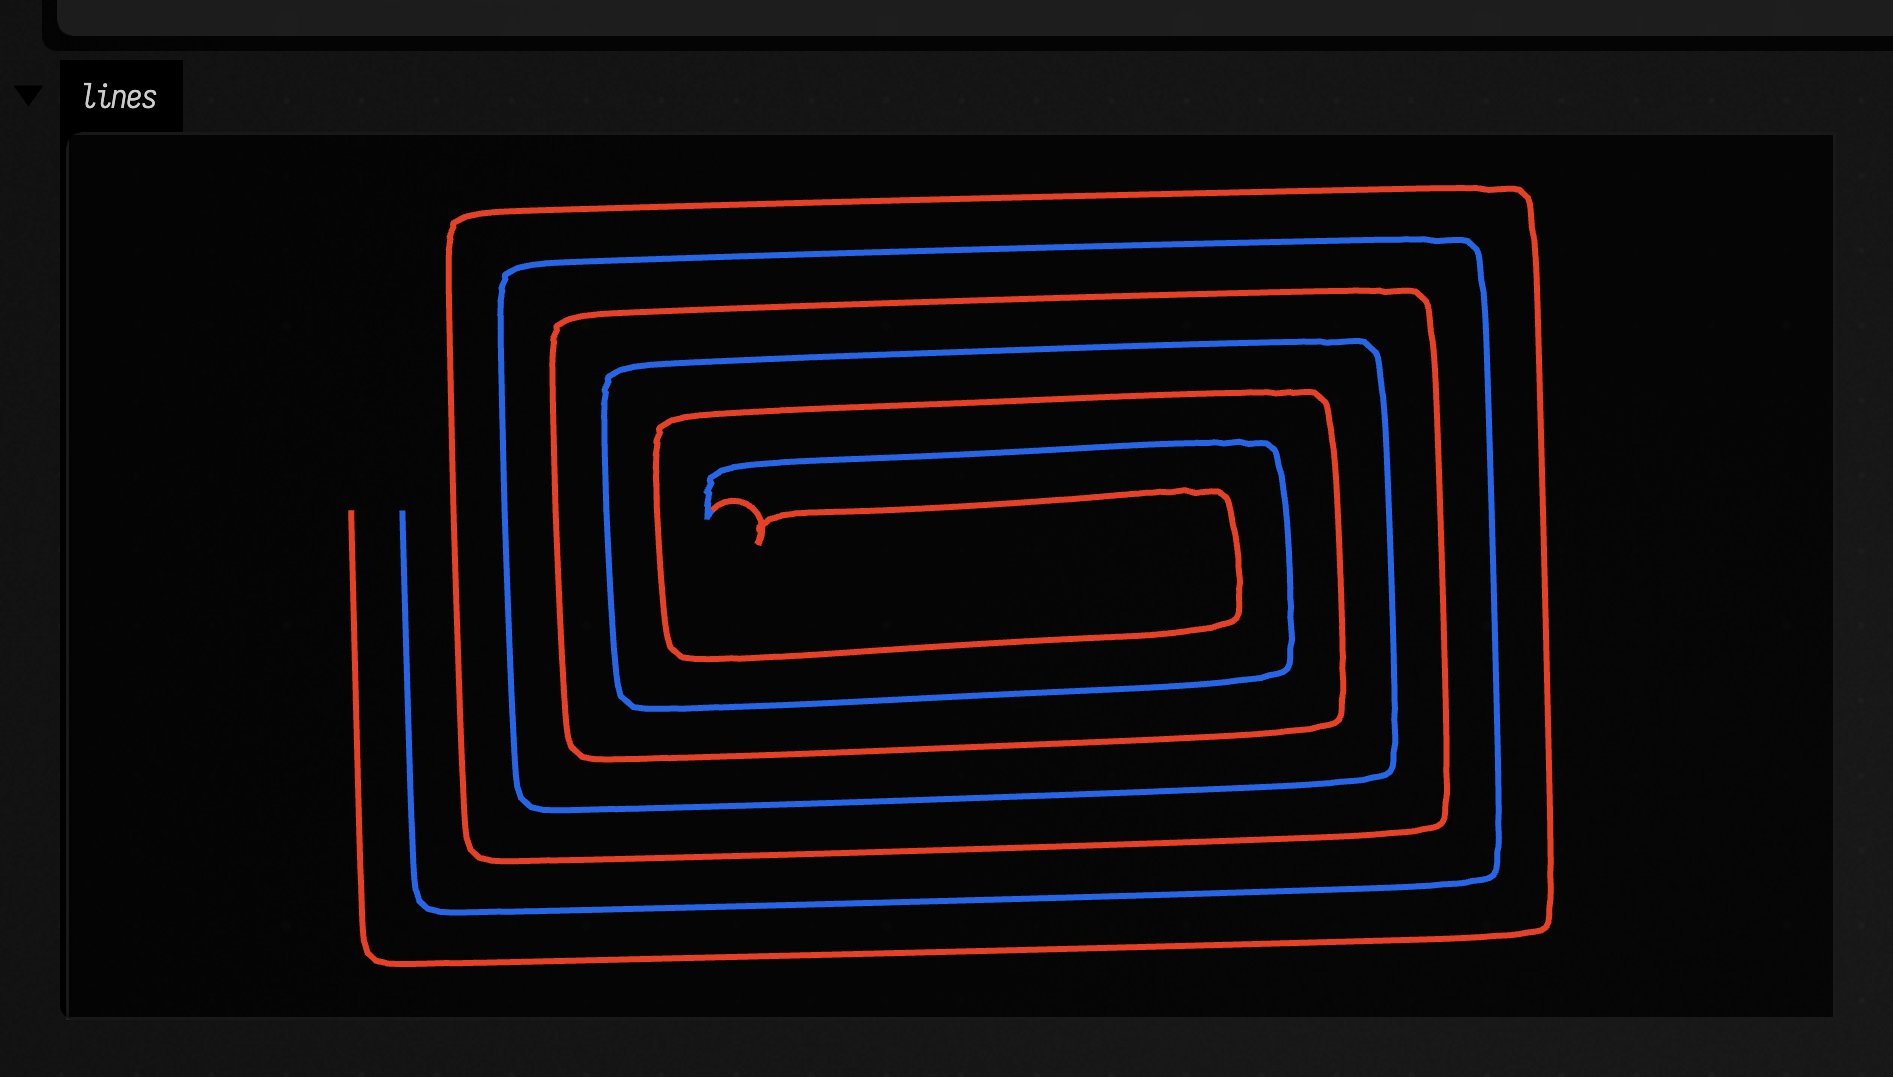
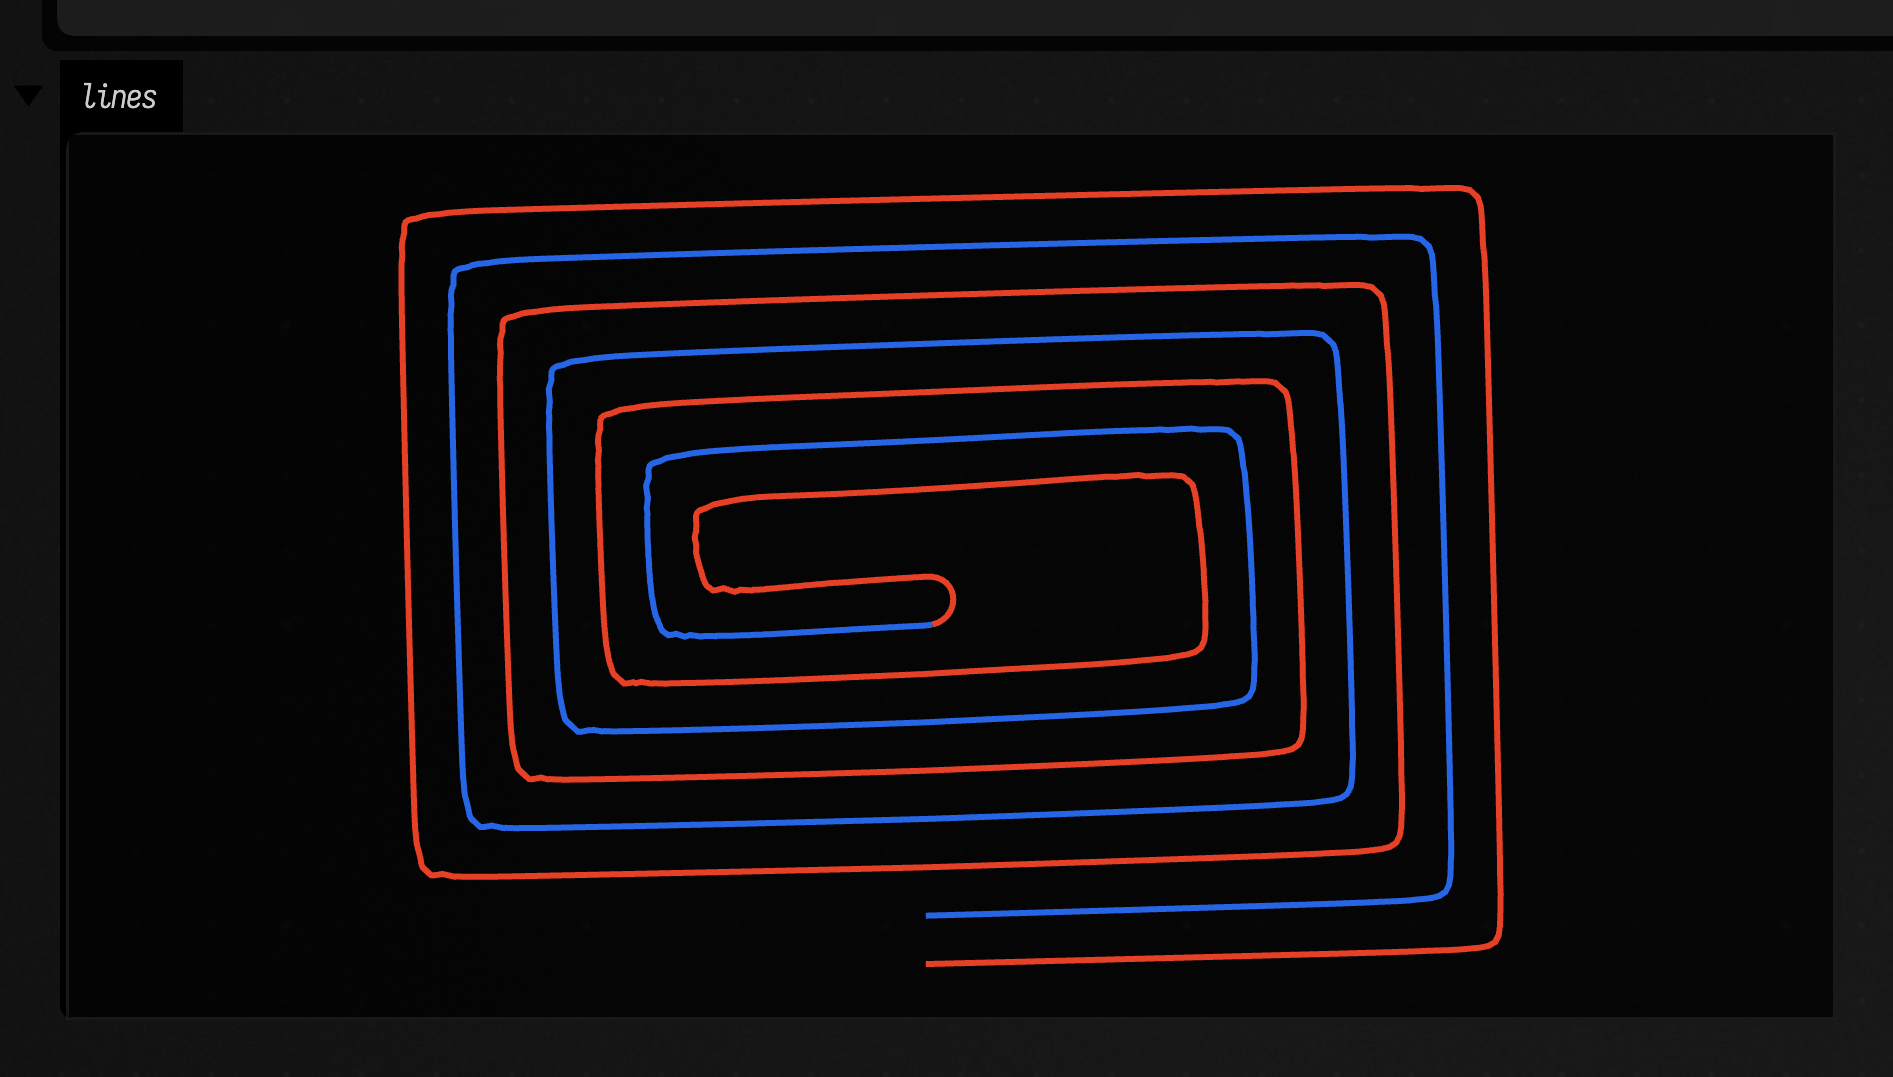
Double spiral: a tangent bend where the arms meet, and less bare floor
The semicircular U-bend always bulged sideways from the supply's arrival, so
where the return started straight ahead it made a hook back on itself. The
bend is now a cubic Bezier tangent to both arms (directions measured over a
little more than the gap, past the kink where a lap snaps onto the next ring),
with the supply backed off first when the return lies ahead of it.

Where the arms start sets where they meet. doubleSpiralArms now starts at the
outer ring's point nearest the middle of the innermost ring, the middle of a
long wall, so the arms meet side by side on a straight stretch and the bend
is a clean U instead of a turn round the end of a thin inner loop.

windingAngle's default hole is 8% of the deepest distance (was 15%), which
leaves less of the middle bare without the hairpins a 3% hole made.
Both double-spiral figures recaptured.

Changed region(s): [[0.187, 0.1532, 0.8415, 0.9192], [0.6233, 0.1532, 0.6857, 0.1838]]

diff --git a/src/jvmMain/kotlin/afield/geometry/mesh/mesh_geodesic.kt b/src/jvmMain/kotlin/afield/geometry/mesh/mesh_geodesic.kt
@@ -409,7 +409,7 @@ fun spiralFromRings(rings: List<List<Vec3>>): List<Vec3> {
 
 /**
  * A counterflow double spiral through concentric closed rings: the path spirals in on every other
- * ring, turns round in the middle in a U-bend, and spirals back out along the rings in between,
+ * ring, turns round in the middle in a smooth bend, and spirals back out along the rings in between,
  * so each lap out runs between two laps in. This is the pattern underfloor-heating pipe is laid
  * in (supply and return side by side keep the floor evenly warm), and a single tool pass that
  * starts and ends at the edge.
@@ -417,8 +417,8 @@ fun spiralFromRings(rings: List<List<Vec3>>): List<Vec3> {
  * [rings] are ordered from the outside in, as for [spiralFromRings]; their spacing is the
  * spacing between neighbouring passes, and each arm's own pitch is twice that. The inward arm
  * uses rings 0, 2, 4, … and the outward arm rings 1, 3, 5, …; the outward arm is started level
- * with the inward one so that both reach the middle at the same place, where a semicircular
- * bend of diameter one spacing joins them. Both ends of the path lie on the outer two rings,
+ * with the inward one so that both reach the middle at the same place, where a bend that is
+ * tangent to both arms joins them. Both ends of the path lie on the outer two rings,
  * next to each other. Needs at least two rings.
  */
 fun doubleSpiralFromRings(rings: List<List<Vec3>>): List<Vec3> {
@@ -440,37 +440,69 @@ fun doubleSpiralArms(rings: List<List<Vec3>>): Pair<List<Vec3>, List<Vec3>> {
     val between = oriented.filterIndexed { i, _ -> i % 2 == 1 }
     // Neither arm goes round its innermost ring a last time: that loop would cross the other
     // arm's last lap, which is still on its way in.
-    val pathIn = spiralThrough(inward, inward.first().first(), finalLap = false)
+    // Where the arms start on the outside sets where they meet in the middle (the laps keep in step).
+    // Start at the outer ring's point nearest the middle of the innermost ring: on an elongated room
+    // that is the middle of a long side, so the arms meet side by side on a straight stretch, running
+    // opposite ways, rather than round the end of a long thin inner loop.
+    val core = oriented.last()
+    val middle = vec(core.map { it.x }.average().toFloat(), core.map { it.y }.average().toFloat(), core.map { it.z }.average().toFloat())
+    val pathIn = spiralThrough(inward, inward.first()[nearestIndex(inward.first(), middle)], finalLap = false)
     // Start the second arm beside the first so the laps stay in step all the way in.
     val pathBack = spiralThrough(between, between.first()[nearestIndex(between.first(), pathIn.first())], finalLap = false)
+    val onward = pathBack.asReversed()
     val supply = ArrayList<Vec3>(pathIn.size + 16)
     supply += pathIn
-    supply += uTurn(pathIn, pathBack.last())
-    val back = ArrayList<Vec3>(pathBack.size)
-    for (p in pathBack.asReversed()) if (back.isNotEmpty() || d2(supply.last(), p) > 1e-14f) back += p
-    return supply to listOf(supply.last()) + back
+    backOff(supply, onward.first())
+    supply += link(supply.toList(), onward)
+    return supply to listOf(supply.last()) + onward
 }
 
-/** A semicircle from the end of [path] to [to], bulging forward along the path's final direction. */
-private fun uTurn(path: List<Vec3>, to: Vec3, steps: Int = 12): List<Vec3> {
-    val a = path.last()
-    val back = path.asReversed().firstOrNull { d2(it, a) > 1e-10f } ?: return emptyList()
-    val hx = to.x - a.x; val hy = to.y - a.y; val hz = to.z - a.z
-    val h2 = hx * hx + hy * hy + hz * hz
-    if (h2 < 1e-14f) return emptyList()
-    // Travel direction with its component along the hop removed, scaled to the bend's radius.
-    var tx = a.x - back.x; var ty = a.y - back.y; var tz = a.z - back.z
-    val along = (tx * hx + ty * hy + tz * hz) / h2
-    tx -= along * hx; ty -= along * hy; tz -= along * hz
-    val tl = sqrt((tx * tx + ty * ty + tz * tz).toDouble()).toFloat()
-    if (tl < 1e-9f) return emptyList()
-    val r = sqrt(h2.toDouble()).toFloat() / 2f
-    tx *= r / tl; ty *= r / tl; tz *= r / tl
-    val cx = a.x + hx / 2; val cy = a.y + hy / 2; val cz = a.z + hz / 2
+/**
+ * The bend joining the end of [path] to the start of [onward]: a cubic Bezier that leaves along the
+ * direction [path] arrives in and reaches [onward] already heading the way it leaves. When the two
+ * arms lie side by side running opposite ways this is a U; when the return starts straight ahead
+ * it is a smooth turn rather than a hook back on itself.
+ */
+/**
+ * Back [supply] off along itself while [onwardStart] lies ahead of its end, by up to about the gap
+ * between them, so the bend that follows turns rather than dipping under to come back up.
+ */
+private fun backOff(supply: MutableList<Vec3>, onwardStart: Vec3) {
+    val gap = sqrt(d2(supply.last(), onwardStart).toDouble())
+    var removed = 0.0
+    while (supply.size > 3 && removed < 1.5 * gap) {
+        val a = supply.last()
+        // The direction of travel over a little more than the gap, not the last few segments, which can be a sliver.
+        val prev = supply.asReversed().firstOrNull { sqrt(d2(it, a).toDouble()) > 1.2 * gap } ?: break
+        val tx = a.x - prev.x; val ty = a.y - prev.y; val tz = a.z - prev.z
+        val hx = onwardStart.x - a.x; val hy = onwardStart.y - a.y; val hz = onwardStart.z - a.z
+        val tl = sqrt((tx * tx + ty * ty + tz * tz).toDouble()); val hl = sqrt((hx * hx + hy * hy + hz * hz).toDouble())
+        if (tl < 1e-12 || hl < 1e-12 || (tx * hx + ty * hy + tz * hz) / (tl * hl) < 0.5) break
+        removed += sqrt(d2(a, supply[supply.size - 2]).toDouble())
+        supply.removeAt(supply.size - 1)
+    }
+}
+
+private fun link(path: List<Vec3>, onward: List<Vec3>, steps: Int = 16): List<Vec3> {
+    val a = path.last(); val b = onward.first()
+    val gap = sqrt(d2(a, b).toDouble()).toFloat()
+    if (gap < 1e-7f) return emptyList()
+    fun direction(points: List<Vec3>, from: Vec3): Vec3? {
+        // Over a little more than the gap, so the kink where a lap snaps onto the next ring does not set the tangent.
+        val far = points.firstOrNull { sqrt(d2(it, from).toDouble()) > 1.2 * gap } ?: points.lastOrNull { d2(it, from) > 1e-14f } ?: return null
+        val dx = from.x - far.x; val dy = from.y - far.y; val dz = from.z - far.z
+        val l = sqrt((dx * dx + dy * dy + dz * dz).toDouble()).toFloat()
+        return vec(dx / l, dy / l, dz / l)
+    }
+    val tIn = direction(path.asReversed(), a) ?: return emptyList()
+    val tOut = direction(onward, b)?.let { vec(-it.x, -it.y, -it.z) } ?: return emptyList()
+    val h = 0.75f * gap
+    val p1 = vec(a.x + tIn.x * h, a.y + tIn.y * h, a.z + tIn.z * h)
+    val p2 = vec(b.x - tOut.x * h, b.y - tOut.y * h, b.z - tOut.z * h)
     return (1 until steps).map { i ->
-        val phi = Math.PI * i / steps
-        val c = kotlin.math.cos(phi).toFloat(); val sn = kotlin.math.sin(phi).toFloat()
-        vec(cx - hx / 2 * c + tx * sn, cy - hy / 2 * c + ty * sn, cz - hz / 2 * c + tz * sn)
+        val t = i.toFloat() / steps; val u = 1 - t
+        val c0 = u * u * u; val c1 = 3 * u * u * t; val c2 = 3 * u * t * t; val c3 = t * t * t
+        vec(c0 * a.x + c1 * p1.x + c2 * p2.x + c3 * b.x, c0 * a.y + c1 * p1.y + c2 * p2.y + c3 * b.y, c0 * a.z + c1 * p1.z + c2 * p2.z + c3 * b.z)
     }
 }
 
@@ -617,7 +649,7 @@ class WindingAngle internal constructor(
  * there to the edge, and triangles within [hole] of the largest distance are left out (see the
  * class). Expects a welded mesh with one boundary loop.
  */
-fun TriMesh.windingAngle(distance: DoubleArray, hole: Double = 0.15 * (distance.maxOrNull() ?: 0.0)): WindingAngle {
+fun TriMesh.windingAngle(distance: DoubleArray, hole: Double = 0.08 * (distance.maxOrNull() ?: 0.0)): WindingAngle {
     require(distance.size == vertexCount) { "windingAngle needs one distance per vertex" }
     val n = vertexCount
     // An angle has no value at the point it winds about, and asked to be harmonic right up to that
@@ -759,7 +791,8 @@ fun WindingAngle.fieldSpiral(pitch: Double, phase: Double = 0.5): List<Vec3> {
     val inner = (0 until mesh.triangleCount).maxOf { t -> minOf(distance[mesh.ia(t)], distance[mesh.ib(t)], distance[mesh.ic(t)]) }
     val out = ArrayList<Vec3>()
     for (k in lo..hi) {
-        if ((k + phase - 1) * pitch < 0.0 || (k + phase) * pitch > inner) continue
+        if ((k + phase - 1) * pitch < 0.0) continue
+        if ((k + phase) * pitch > inner) continue
         val arc = mesh.isolines(g, k + phase).maxByOrNull { it.size } ?: continue
         if (arc.size < 2) continue
         val oriented = if (out.isEmpty()) {
@@ -792,9 +825,8 @@ fun WindingAngle.fieldDoubleSpiral(spacing: Double): Pair<List<Vec3>, List<Vec3>
     val supply = ArrayList(fieldSpiral(2 * spacing, 0.25))
     val back = fieldSpiral(2 * spacing, 0.75)
     if (supply.size < 2 || back.size < 2) return supply to back
-    supply += uTurn(supply, back.last())
-    val out = ArrayList<Vec3>(back.size + 1)
-    out += supply.last()
-    for (p in back.asReversed()) if (d2(out.last(), p) > 1e-14f) out += p
-    return supply to out
+    val onward = back.asReversed()
+    backOff(supply, onward.first())
+    supply += link(supply.toList(), onward)
+    return supply to listOf(supply.last()) + onward
 }

diff --git a/public/docs/mesh_examples.md b/public/docs/mesh_examples.md
@@ -760,9 +760,13 @@ lines(
 )
 ```
 
-![A rectangular floor seen from above, covered by one continuous pipe in two colours: a red supply run spirals in from one corner of the outer edge in rounded rectangles, turns round in a small U-bend in the middle, and a blue return run spirals back out in the gaps between the red laps, ending beside where the red began](assets/mesh_examples/double_spiral.png)
+![A rectangular floor seen from above, covered by one continuous pipe in two colours: a red supply run spirals in from the middle of the bottom wall in rounded rectangles, turns round in a small U-bend on a straight stretch in the middle, and a blue return run spirals back out in the gaps between the red laps, ending beside where the red began](assets/mesh_examples/double_spiral.png)
 
-Both ends finish on the outer two rings, side by side, ready for the manifold. Neither arm goes
+Where the arms start sets where they meet: the laps keep in step, so the two arms reach the middle
+at the angle they left the wall. Starting at the middle of a long wall brings them together side by
+side on a straight stretch, running opposite ways, where a bend tangent to both makes a clean U;
+started at a short wall they would meet round the end of a long thin inner loop, crossing each
+other's direction. Both ends finish on the outer two rings, side by side, ready for the manifold. Neither arm goes
 round its innermost ring a final time, because that loop would cross the other arm's last lap.
 
 Rooms are rarely rectangles, and there the rings stop being enough. `outlineMesh` fills any floor
@@ -810,7 +814,7 @@ lines(shown, w = 640.0, h = 460.0, fitToSize = true)
 The spokes show the angle: they crowd where the room is narrow and fan out where it is wide, and
 the laps step inward evenly along every one of them rather than all at once. Only whole laps are
 kept, so the pipe stays at least half a spacing from the walls and leaves the hole round the middle
-(`hole`, by default 15% of the deepest distance) bare. A smaller hole covers more floor, until a
+(`hole`, by default 8% of the deepest distance) bare. A smaller hole covers more floor, until a
 lap into a narrow wing turns into a hairpin.
 
 Before finishing comes roughing: a flat-bottomed tool clears the block one horizontal layer at a
